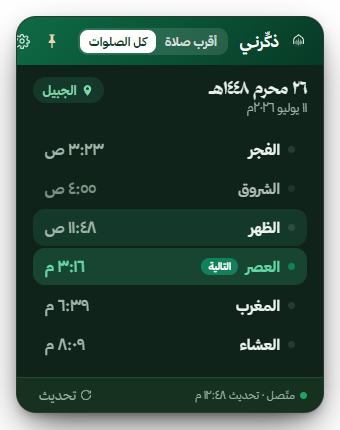
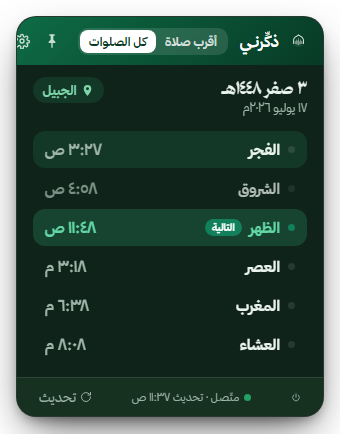
v1.2.2: إصلاح قصّ الودجت المصغّرة + لقطات موقع صحيحة
- السبب الجذري: .mini عنصر flex بعرض الكتلة فقياسه يعيد عرض النافذة نفسها
  ولا تتوسع أبدًا — الحل width:max-content + إعادة القياس بعد تحميل خط ثمانية
- لقطات الموقع أُعيد التقاطها بعد استقرار الخط والقياس، وبتثبيت وضع كل لقطة
- هامش أمان في قياس العرض + تأخير التقاط في وضع الفحص

diff --git a/src/main/main.js b/src/main/main.js
@@ -128,13 +128,18 @@ async function init() {
       const wait = (ms) => new Promise((r) => setTimeout(r, ms));
       try {
         if (shotDir) {
+          await wait(800); // دع الخط يكتمل والقياس يستقر قبل الالتقاط
           const w = windows.getWidget();
           if (w) {
+            const origMode = store.get('viewMode'); // ثبّت الوضع لكل لقطة ثم أعده
+            state.setSettings({ viewMode: 'next' });
+            await wait(700);
             fs.writeFileSync(path.join(shotDir, 'widget-next.png'), (await w.webContents.capturePage()).toPNG());
             state.setSettings({ viewMode: 'all' });
             await wait(700);
             fs.writeFileSync(path.join(shotDir, 'widget-all.png'), (await w.webContents.capturePage()).toPNG());
-            state.setSettings({ viewMode: 'next' });
+            state.setSettings({ viewMode: origMode });
+            await wait(400);
           }
           const mw = windows.getMini();
           if (mw) fs.writeFileSync(path.join(shotDir, 'mini.png'), (await mw.webContents.capturePage()).toPNG());

diff --git a/src/renderer/mini/mini.js b/src/renderer/mini/mini.js
@@ -52,10 +52,16 @@ function resize() {
   requestAnimationFrame(() => {
     const el = root.querySelector('.mini');
     if (!el) return;
-    const w = Math.ceil(el.getBoundingClientRect().width) + 12;
+    // +12 حشوة الجسم (6×2) + 4 هامش أمان ضد فروق القياس
+    const w = Math.ceil(el.getBoundingClientRect().width) + 16;
     const h = Math.ceil(el.getBoundingClientRect().height) + 12;
     window.zn.resizeMini(w, h);
   });
+}
+
+// خط ثمانية يغيّر عرض النص بعد تحميله — أعد القياس عندها وإلا انقصّ المحتوى
+if (document.fonts && document.fonts.ready) {
+  document.fonts.ready.then(() => resize());
 }
 
 root.addEventListener('click', (e) => {

diff --git a/src/renderer/widget/widget.js b/src/renderer/widget/widget.js
@@ -168,6 +168,11 @@ function resize() {
   });
 }
 
+// أعد القياس بعد تحميل خط ثمانية (يغيّر أبعاد النص)
+if (document.fonts && document.fonts.ready) {
+  document.fonts.ready.then(() => resize());
+}
+
 // أحداث النقر
 root.addEventListener('click', (e) => {
   const btn = e.target.closest('[data-action]');

diff --git a/src/renderer/mini/style.css b/src/renderer/mini/style.css
@@ -7,6 +7,8 @@ body {
 .mini {
   position: relative;
   display: flex;
+  /* عرض المحتوى الطبيعي — وإلا يتمدد لملء النافذة ويستحيل قياسه للتوسعة */
+  width: max-content;
   align-items: center;
   gap: 10px;
   padding: 8px 12px;
